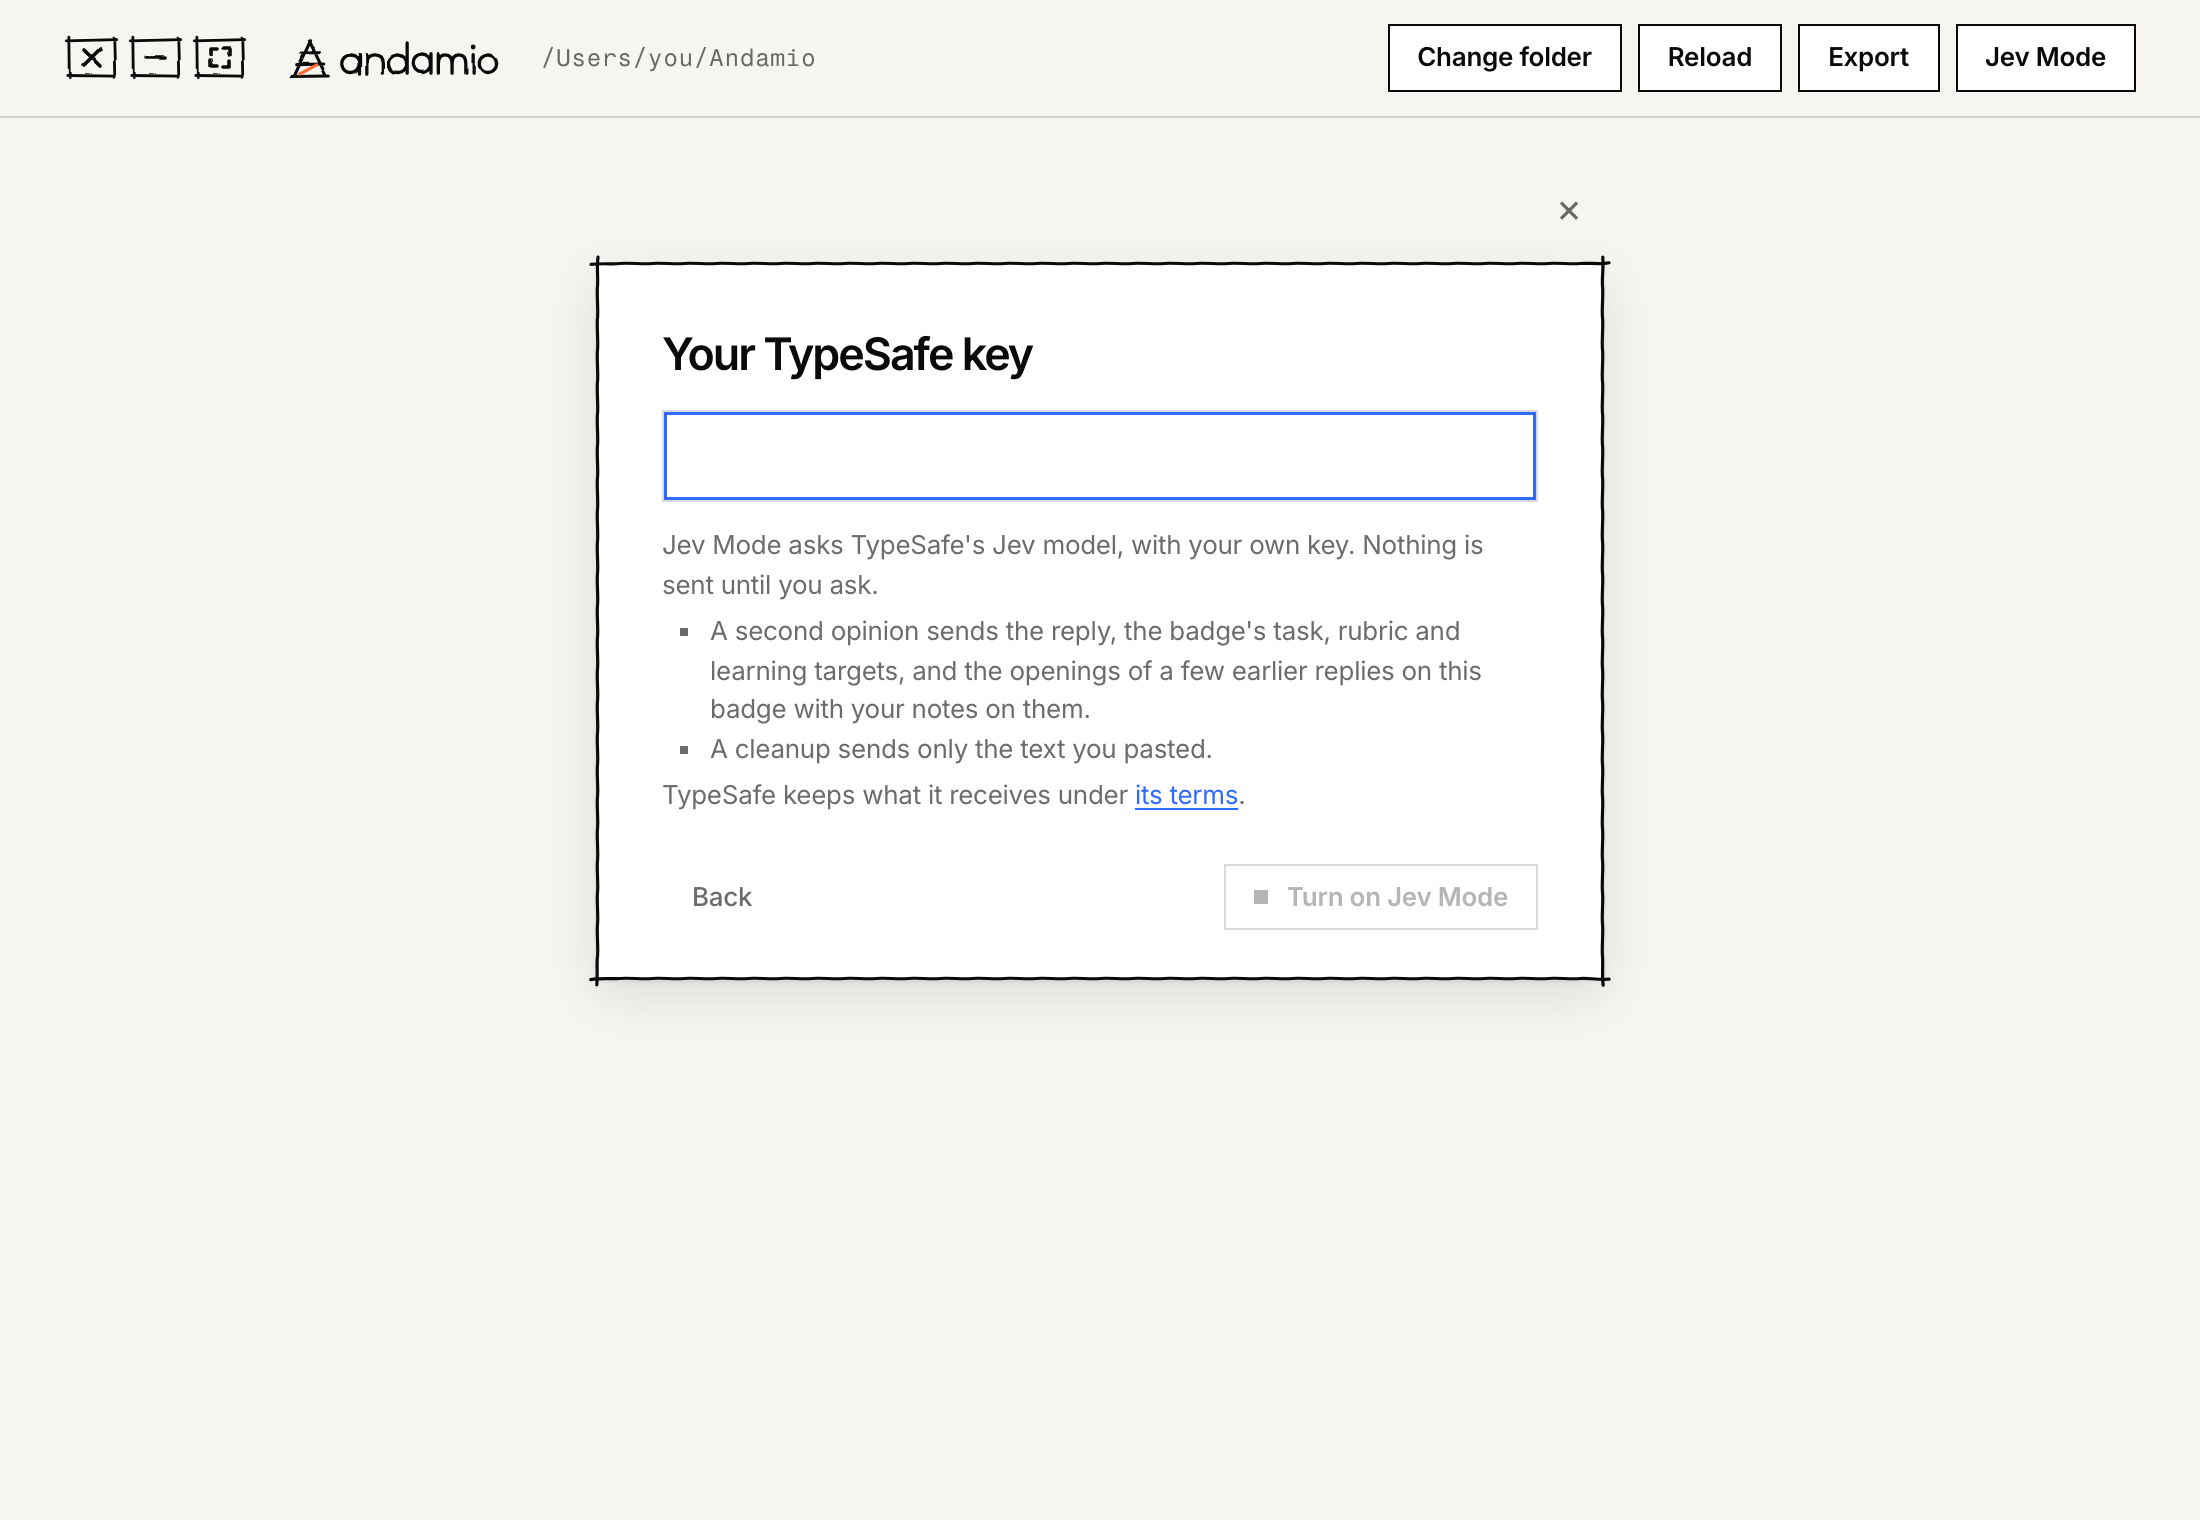
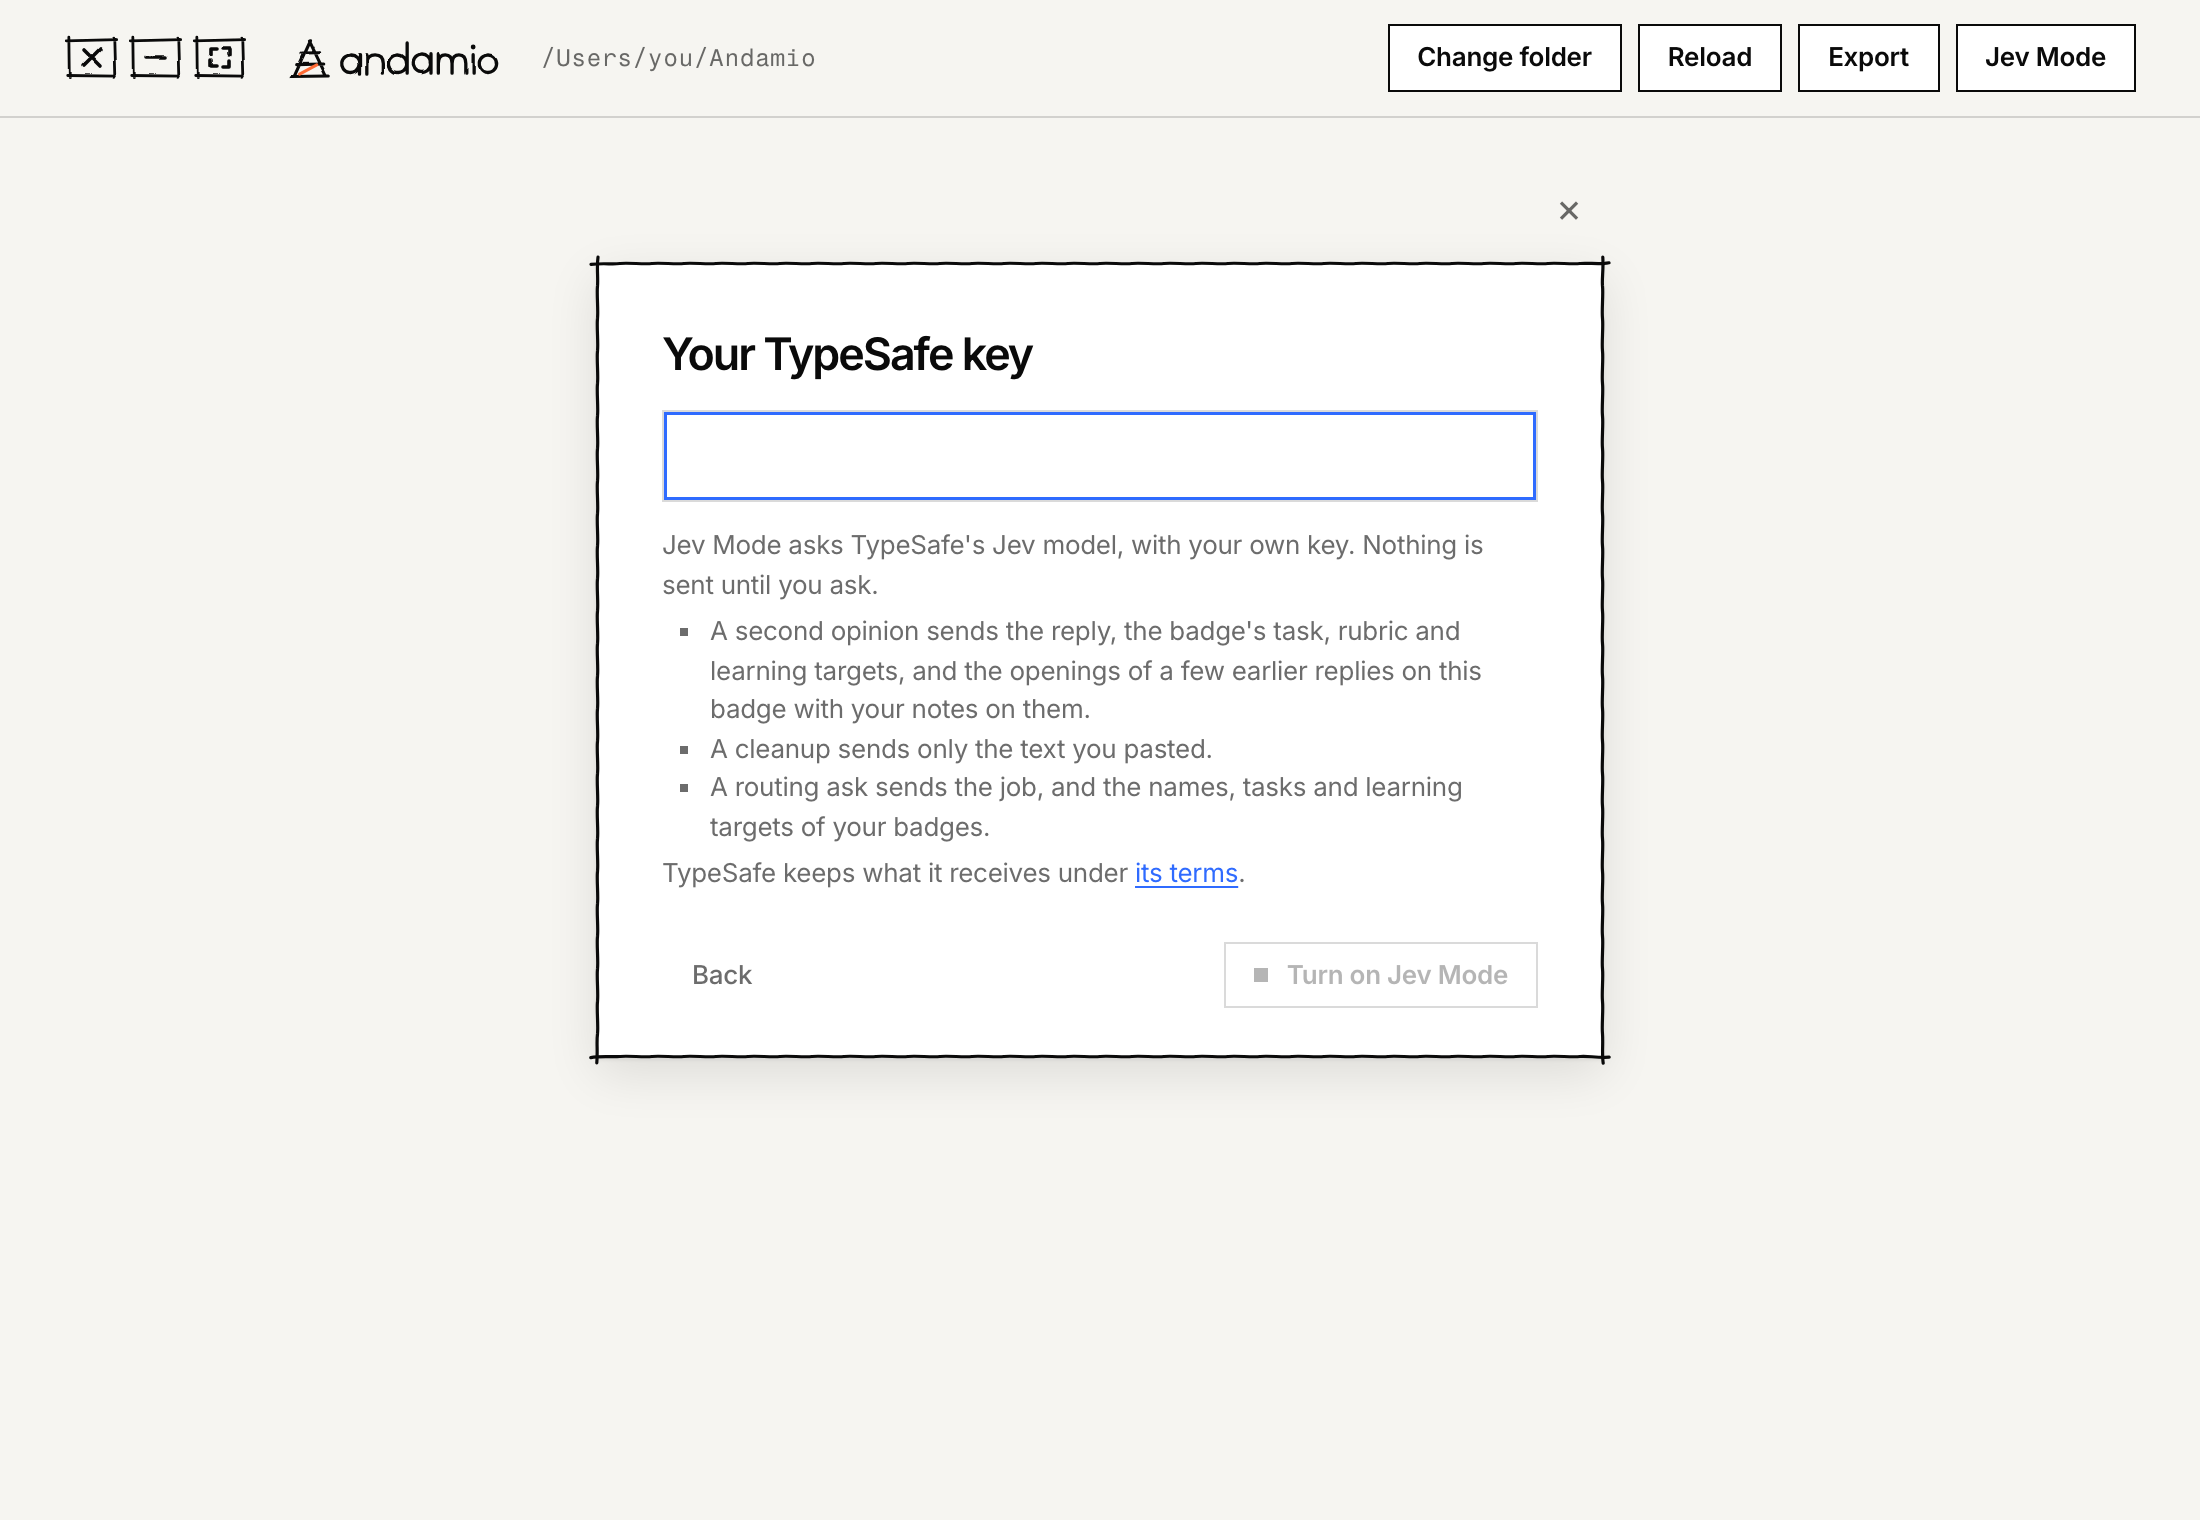
docs(guide): find an agent for a job, what a routing ask sends, and the new files in your folder

Changed region(s): [[0.2782, 0.4947, 0.7418, 0.7112]]

diff --git a/src/ui/JevDeck.test.tsx b/src/ui/JevDeck.test.tsx
@@ -353,6 +353,7 @@ describe("what the deck says leaves the machine", () => {
     ).toBeTruthy();
     expect(d.queryByText("A second opinion sends the reply, the badge's task and its rubric.")).toBeNull();
     expect(d.getByText("A cleanup sends only the text you pasted.")).toBeTruthy();
+    expect(d.getByText("A routing ask sends the job, and the names, tasks and learning targets of your badges.")).toBeTruthy();
     expect(d.getByText(/TypeSafe keeps what it receives under/)).toBeTruthy();
     expect(d.getByRole("link", { name: "its terms" }).getAttribute("href")).toBe(TERMS);
   });

diff --git a/src/ui/JevDeck.tsx b/src/ui/JevDeck.tsx
@@ -69,6 +69,7 @@ function About() {
       <ul>
         <li>A second opinion sends the reply, the badge's task, rubric and learning targets, and the openings of a few earlier replies on this badge with your notes on them.</li>
         <li>A cleanup sends only the text you pasted.</li>
+        <li>A routing ask sends the job, and the names, tasks and learning targets of your badges.</li>
       </ul>
       <p>
         TypeSafe keeps what it receives under <TermsLink />.

diff --git a/README.md b/README.md
@@ -36,8 +36,8 @@ This is a tool people should want to use for its own sake. If it helps you think
 
 Planning. Built with Tauri 2 and React + TypeScript. The prototype targets Mac and Linux, with Windows optional. It does not include a marketplace.
 
-On first run the app asks for a data folder. It keeps everything there as plain files you can read, edit and put under git: collections and credentials as Markdown and JSON, agent profiles as JSON, each recorded result and each reply held to compare as a Markdown file, each go-to choice as JSON, and pictures and videos as files beside the text that names them.
+On first run the app asks for a data folder. It keeps everything there as plain files you can read, edit and put under git: collections and credentials as Markdown and JSON, agent profiles as JSON, each recorded result and each reply held to compare as a Markdown file, each go-to choice as JSON, the cost order over your agents and each agent you took for a job as JSON, and pictures and videos as files beside the text that names them.
 
-The app has one home: what needs you, your agents, your badges, and two doors to create an agent or a credential. Every step after that asks one thing at a time.
+The app has one home: what needs you, your agents, your badges, and three doors: create an agent, create a credential, or find an agent for a job. Every step after that asks one thing at a time.
 
 The user guide is in `site/`. Preview it with `npm run site:build && npm run site:preview`.

diff --git a/CONCEPTS.md b/CONCEPTS.md
@@ -67,3 +67,21 @@ How often Jev's overall call on a badge matched the user's verdicts, counted ove
 ### Overrule
 
 A result whose verdict went against Jev's overall call: Not met against a meets call, or Met against a misses call. Can't call never counts. Overrules lead the examples a second opinion sends.
+
+### Routing ask
+
+Jev's answer, only when the user asks, to which badge a new job is like and how hard the job is: one yes-or-no question per badge, sent with the badge's name, task and learning targets and never its rubric, and one rating of the job as routine, needing judgment, or unusual or high-stakes.
+
+## Finding an agent
+
+### Holds cleanly
+
+An agent holds a badge cleanly when its latest result there is Met with no "task changed" or "setup changed" flag. Home counts a flagged Met as holding; the router counts only a clean one.
+
+### Cost order
+
+The order the user sets over their agents, cheapest first, from Home's agent list. The router picks the cheapest agent that holds a badge cleanly by it, and steps up through it for a job rated unusual or high-stakes. An agent it doesn't name counts as most expensive until the user places it.
+
+### Routing record
+
+What the app keeps each time the user takes an agent for a job: the job's first line, the badge, the agent taken and its setup, the agent the card picked and why, and how the badge was found. One file per decision, written once, so a past choice can later count as a decision reused.
